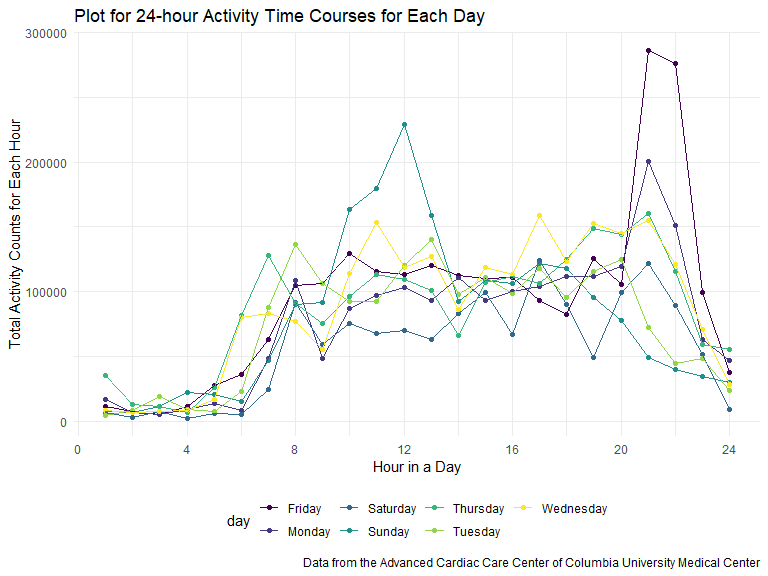
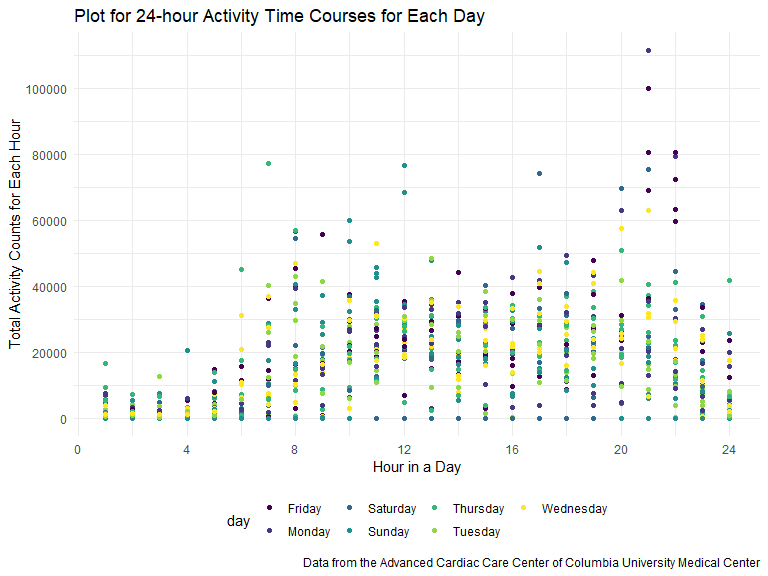
Made the last plot having 35 days

diff --git a/p8105_hw3_jt3174.md b/p8105_hw3_jt3174.md
@@ -587,18 +587,20 @@ There is no appearant trend over time for the activity counts in each
 day. The number just oscalate in the range from 1000 to 650000.
 
 ``` r
-inspection_data = accel_data %>% 
-  # group by day of week
-  group_by(day) %>% 
+inspection_data = accel_data %>%
+  # group by week and day to have 35 days
+  group_by(week, day) %>% 
   # organize minutes to hours
   mutate(hour_in_a_day = ceiling(minute_in_a_day/60)) %>% 
-  # group by hour and day
-  group_by(day, hour_in_a_day) %>% 
-  # Find the total activity for each hour
+  # group by week, day and each hour
+  group_by(week, day, hour_in_a_day) %>% 
+  # Find the total activity for each hour for each day
   summarize(sum_by_hour = sum(activity_count)) %>% 
+  # plot with x = hour_in_a_day and y-axis is sum_by_hour
   ggplot(aes(x = hour_in_a_day, y = sum_by_hour)) +
+  # color by day
   geom_point(aes(color = day)) +
-  geom_line(aes(color = day)) +
+  # give labels and captions for the plot
   labs(
     title = "Plot for 24-hour Activity Time Courses for Each Day",
     x = "Hour in a Day",
@@ -606,8 +608,8 @@ inspection_data = accel_data %>%
     caption = "Data from the Advanced Cardiac Care Center of Columbia University Medical Center") +
     scale_y_continuous(
     # make the y-axis labels a bit prettier
-    breaks = c(0, 100000, 200000, 300000),
-    labels = c("0", "100000", "200000", "300000")
+    breaks = c(0, 20000, 40000, 60000, 80000, 100000， 120000),
+    labels = c("0", "20000", "40000", "60000", "80000", "100000", "120000")
   ) +
     scale_x_continuous(
     # make the x-axis labels a bit prettier
